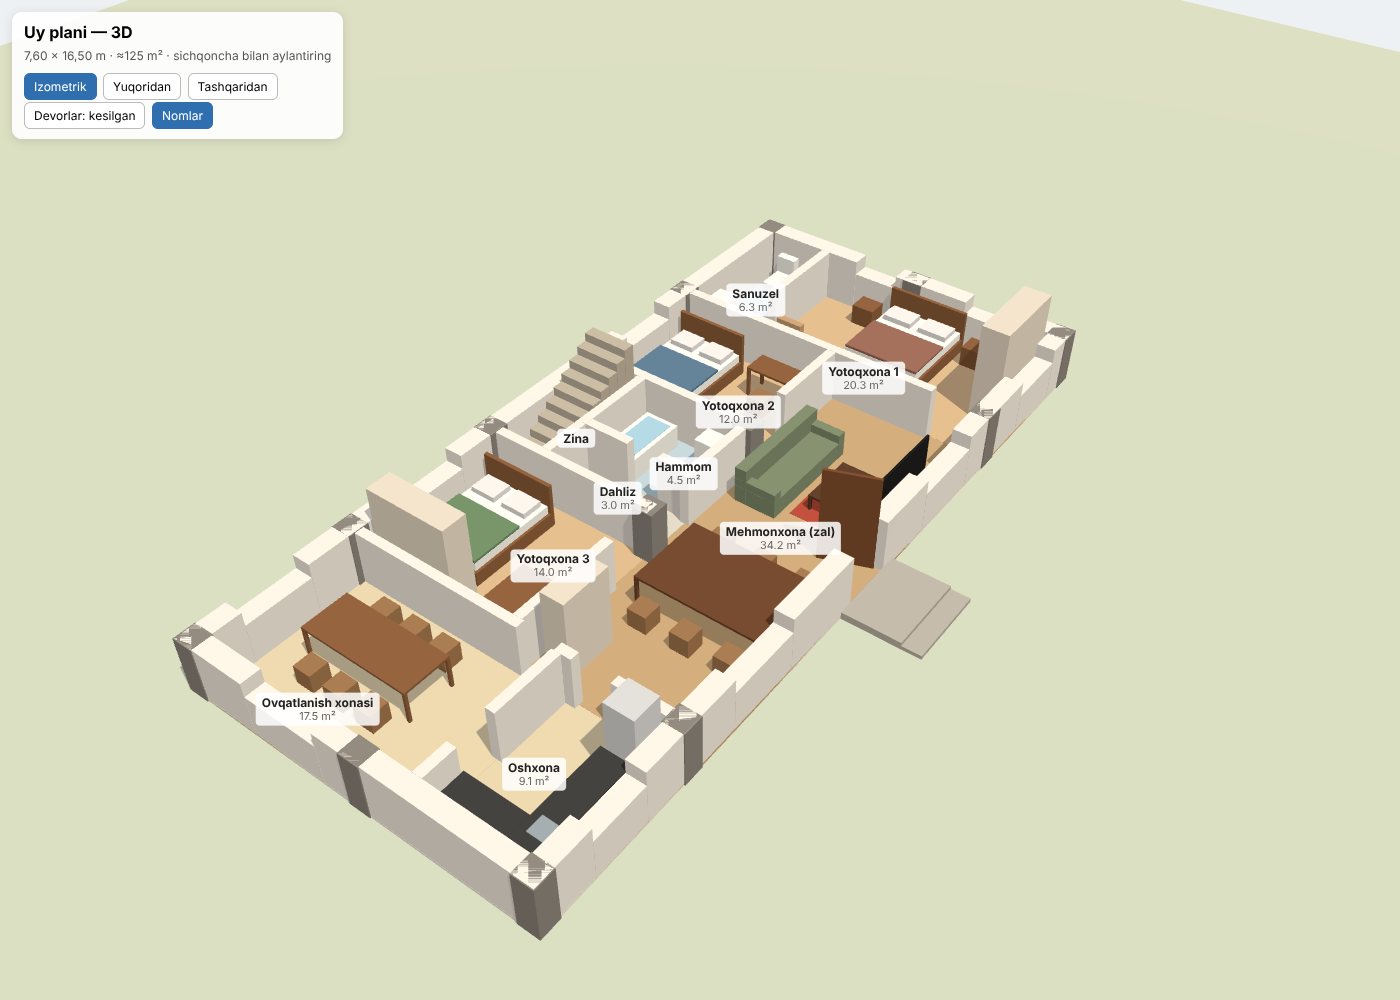
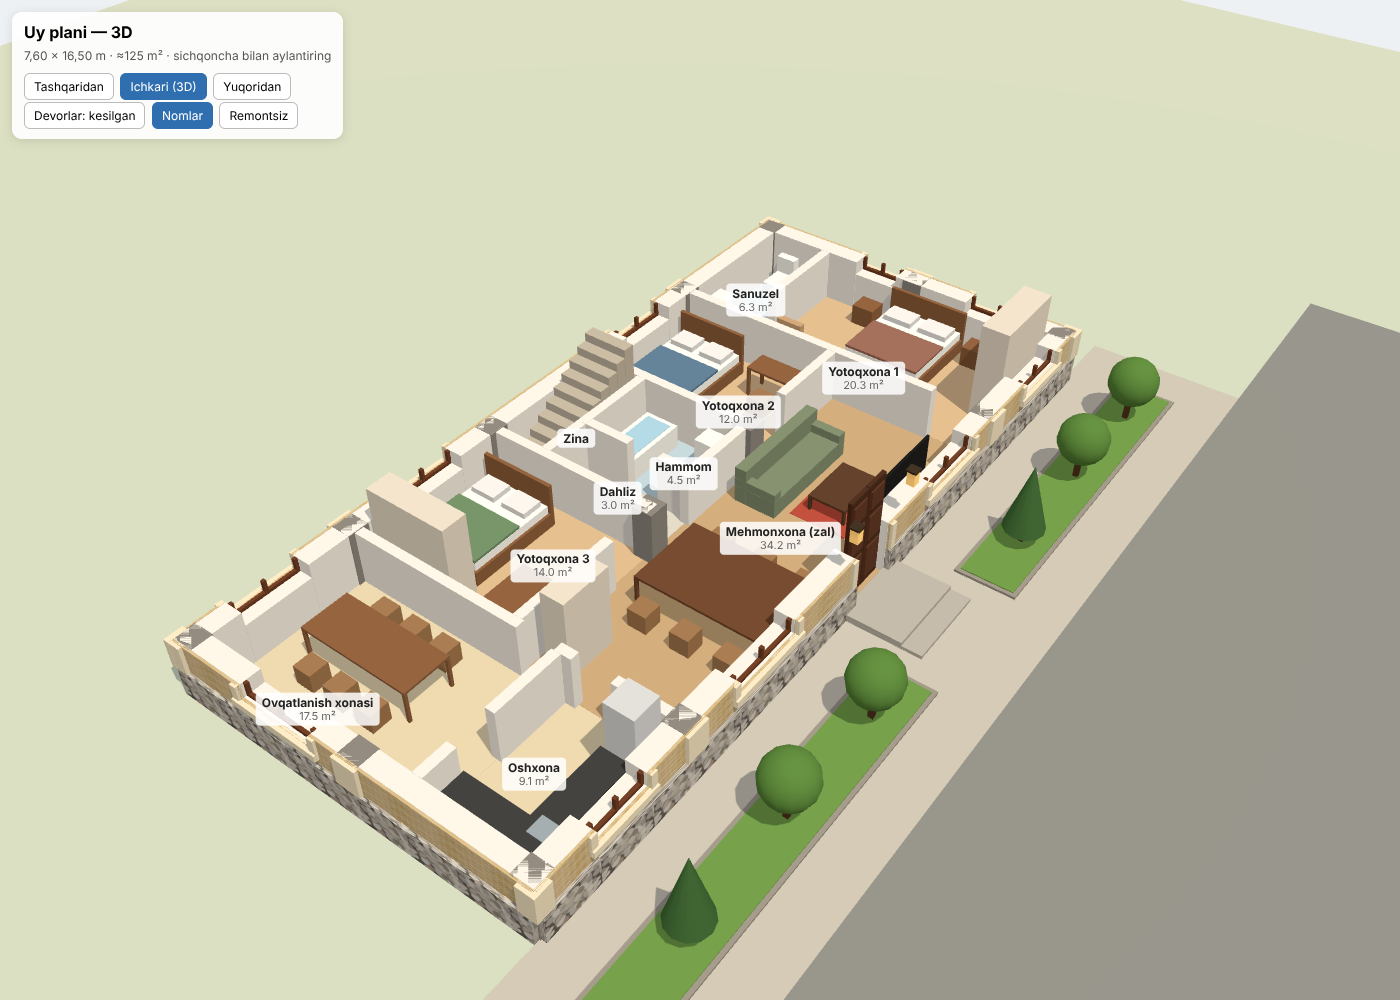
Uy 3D: rasm asosidagi fasad, 2-qavat, tom va remontsiz rejim
Claude-Session: https://claude.ai/code/session_0169jomFrHaG9jx6ye4rbiwT

diff --git a/uy-plani/uy-3d.html b/uy-plani/uy-3d.html
@@ -25,12 +25,13 @@
 <div id="ui">
   <h1>Uy plani — 3D</h1>
   <p>7,60 × 16,50 m · ≈125 m² · sichqoncha bilan aylantiring</p>
-  <button id="bIso" class="on">Izometrik</button>
+  <button id="bEye" class="on">Tashqaridan</button>
+  <button id="bIso">Ichkari (3D)</button>
   <button id="bTop">Yuqoridan</button>
-  <button id="bEye">Tashqaridan</button>
   <br>
   <button id="bWalls">Devorlar: baland</button>
   <button id="bLbl" class="on">Nomlar</button>
+  <button id="bRaw">Remontsiz</button>
 </div>
 <script type="module">
 import * as THREE from 'three';
@@ -80,12 +81,14 @@ scene.add(ground);
 const mats = {};
 const mat = (c, o = {}) => mats[c + JSON.stringify(o)] ??= new THREE.MeshStandardMaterial({ color: c, roughness: .85, ...o });
 
+let target = scene;
+const floors = [];
 // plan koordinatalari: x -> x, y (plan) -> z
 function box(x, z, w, d, h, color, y0 = 0, o = {}) {
   const m = new THREE.Mesh(new THREE.BoxGeometry(w, h, d), mat(color, o));
   m.position.set(x + w / 2, y0 + h / 2, z + d / 2);
   m.castShadow = m.receiveShadow = true;
-  scene.add(m);
+  target.add(m);
   return m;
 }
 
@@ -109,7 +112,10 @@ const LBL = {
   'Ovqatlanish xonasi': [2.2, 15.7], 'Oshxona': [5.8, 14.6],
 };
 for (const [n, x, z, w, d, c] of ROOMS) {
-  box(x, z, w, d, 0.05, c);
+  const f = box(x, z, w, d, 0.05, c);
+  f.material = f.material.clone();
+  f.userData.color = c;
+  floors.push(f);
   const el = document.createElement('div');
   el.className = 'lbl';
   el.innerHTML = n === 'Zina' ? n : `${n}<span>${(w * d).toFixed(1)} m²</span>`;
@@ -177,14 +183,13 @@ for (const [cx, cz] of [[0, 0], [4, 0], [W, 0], [0, 3.5], [W, 3.5], [0, 6.5], [4
 }
 
 // kirish eshigi (ochiq) va zinapoya oldidagi ayvoncha
-const entry = box(W - TO / 2 - 0.03, 7.4, 0.06, 1.05, DOOR_H, '#7a4b2a');
-entry.geometry.translate(0, 0, 0.5);
-entry.position.z -= 0.5;
-entry.rotation.y = -Math.PI / 2.6;
 box(W, 7.1, 1.2, 1.7, 0.15, '#b9b4ab');
 box(W + 1.2, 7.1, 0.4, 1.7, 0.08, '#b9b4ab');
 
 // ---------- mebel ----------
+const furniture = new THREE.Group();
+scene.add(furniture);
+target = furniture;
 const WHITE = '#fbfbf8', WOOD = '#8b5e3c', FAB = '#5b7c99', FAB2 = '#9a6a5a';
 function bed(x, z, w, d, c = FAB) {
   box(x, z, w, d, 0.35, WOOD);
@@ -208,8 +213,10 @@ box(0.5, 2.6, 0.5, 0.45, 0.85, WHITE);
 // Yotoqxona 2
 bed(0.5, 4.0, 1.6, 2.0);
 table(2.6, 4.0, 1.1, 0.55); chair(3.15, 4.85);
-// Zina
+// Zina (konstruksiya — remontsiz holatda ham ko'rinadi)
+target = scene;
 for (let i = 0; i < 11; i++) box(0.4, 9.2 - i * 0.25, 1.0, 0.25, 0.18 * (i + 1), '#bfb5a5');
+target = furniture;
 // Hammom
 box(1.75, 6.75, 0.75, 1.4, 0.55, WHITE);
 box(1.85, 6.85, 0.55, 1.2, 0.02, '#a9d3e8', 0.54);
@@ -237,18 +244,215 @@ box(5.3, 15.5, 1.3, 0.6, 0.88, '#e9e5dd'); box(5.3, 15.5, 1.3, 0.6, 0.04, '#3b3b
 box(6.6, 13.25, 0.6, 0.6, 1.8, '#d7dadd');
 box(6.75, 15.4, 0.35, 0.35, 0.02, '#9aa7b0', 0.92);
 
+target = scene;
+
+// ---------- tashqi fasad (rasm asosida: sariq g'isht, krem ramkalar, tosh poydevor) ----------
+let seed = 7;
+const rand = () => (seed = seed * 16807 % 2147483647) / 2147483647;
+function canvasTex(w, h, draw) {
+  const c = document.createElement('canvas'); c.width = w; c.height = h;
+  draw(c.getContext('2d'), w, h);
+  const t = new THREE.CanvasTexture(c);
+  t.wrapS = t.wrapT = THREE.RepeatWrapping; t.colorSpace = THREE.SRGBColorSpace; t.anisotropy = 8;
+  return t;
+}
+const brickTex = canvasTex(256, 256, (g, w, h) => {   // 1,0 × 0,7 m
+  g.fillStyle = '#e9dcc0'; g.fillRect(0, 0, w, h);
+  const bw = 64, bh = 25.6;
+  for (let r = 0; r < 10; r++) for (let i = -1; i < 5; i++) {
+    const x = i * bw + (r % 2 ? bw / 2 : 0), y = r * bh, t = rand();
+    g.fillStyle = `hsl(${34 + t * 10}, ${35 + rand() * 20}%, ${56 + rand() * 16}%)`;
+    g.fillRect(x + 2, y + 2, bw - 4, bh - 4);
+  }
+});
+const stoneTex = canvasTex(256, 160, (g, w, h) => {   // 1,0 × 0,6 m
+  g.fillStyle = '#5f5a54'; g.fillRect(0, 0, w, h);
+  for (let i = 0; i < 90; i++) {
+    const x = rand() * w, y = rand() * h, r = 9 + rand() * 11;
+    g.fillStyle = `hsl(${25 + rand() * 20}, ${4 + rand() * 10}%, ${52 + rand() * 30}%)`;
+    g.beginPath(); g.ellipse(x, y, r * 1.35, r, rand() * 3, 0, 7); g.fill();
+  }
+});
+const roofTex = canvasTex(64, 64, (g, w, h) => {      // har 0,5 m da profnastil qirrasi
+  g.fillStyle = '#5c6268'; g.fillRect(0, 0, w, h);
+  g.fillStyle = '#7d848b'; g.fillRect(0, 0, w, 5);
+  g.fillStyle = '#4a4f55'; g.fillRect(0, 5, w, 3);
+});
+const woodTex = canvasTex(128, 64, (g, w, h) => {
+  g.fillStyle = '#b06a32'; g.fillRect(0, 0, w, h);
+  for (let x = 0; x < w; x += 16) { g.fillStyle = `hsl(25, 55%, ${36 + rand() * 12}%)`; g.fillRect(x, 0, 14, h); }
+});
+function texMat(tex, rx, ry) {
+  const t = tex.clone(); t.needsUpdate = true; t.repeat.set(rx, ry);
+  return new THREE.MeshStandardMaterial({ map: t, roughness: .9 });
+}
+const CREAM = '#efe4c8', FRAME = '#6b3a1f';
+const PLINTH = 0.6;
+const upper = new THREE.Group(); scene.add(upper);
+
+function mbox(x, y, z, w, h, d, material, grp, reg = false) {
+  const m = new THREE.Mesh(new THREE.BoxGeometry(w, h, d), material);
+  m.position.set(x + w / 2, y + h / 2, z + d / 2);
+  m.castShadow = m.receiveShadow = true;
+  grp.add(m);
+  if (reg) { m.userData = { y0: y, h }; wallMeshes.push(m); }
+  return m;
+}
+// tomon bo'yicha: s = 'E' (ko'cha, x=W), 'W' (x=0), 'N' (z=0), 'S' (z=H); a..b devor bo'ylab, k — chiqib turishi
+function sbox(s, a, b, y0, y1, k, material, grp, reg, off = 0) {
+  const L = b - a, h = y1 - y0;
+  if (L <= 0.001 || h <= 0.001) return;
+  if (s === 'E') return mbox(W + off, y0, a, k, h, L, material, grp, reg);
+  if (s === 'W') return mbox(-k - off, y0, a, k, h, L, material, grp, reg);
+  if (s === 'N') return mbox(a, y0, -k - off, L, h, k, material, grp, reg);
+  return mbox(a, y0, H + off, L, h, k, material, grp, reg);
+}
+function cladPiece(s, a, b, y0, y1, grp, reg) {
+  if (y0 < PLINTH) sbox(s, a, b, y0, Math.min(y1, PLINTH), 0.12, texMat(stoneTex, (b - a) / 1.0, (Math.min(y1, PLINTH) - y0) / 0.6), grp, reg);
+  if (y1 > PLINTH) { const ya = Math.max(y0, PLINTH); sbox(s, a, b, ya, y1, 0.05, texMat(brickTex, (b - a) / 1.0, (y1 - ya) / 0.7), grp, reg); }
+}
+// teshiklar: [a, b, pastki, yuqori, turi]
+function facade(s, len, y0, y1, ops, grp, reg) {
+  let cur = 0;
+  for (const [a, b, lo, hi, type] of [...ops].sort((p, q) => p[0] - q[0])) {
+    cladPiece(s, cur, a, y0, y1, grp, reg);
+    cladPiece(s, a, b, y0, lo, grp, reg);
+    cladPiece(s, a, b, hi, y1, grp, reg);
+    cur = b;
+    // krem ramka
+    const fr = 0.14, cm = mat(CREAM);
+    sbox(s, a - fr, a, lo - fr, hi + fr, 0.1, cm, grp, reg);
+    sbox(s, b, b + fr, lo - fr, hi + fr, 0.1, cm, grp, reg);
+    sbox(s, a - fr, b + fr, hi, hi + fr, 0.1, cm, grp, reg);
+    if (type === 'w') {
+      sbox(s, a - fr, b + fr, lo - fr, lo, 0.14, cm, grp, reg);
+      // jigarrang yog'och rom + oyna
+      const fm = mat(FRAME);
+      sbox(s, a, a + 0.07, lo, hi, 0.07, fm, grp, reg, -0.12);
+      sbox(s, b - 0.07, b, lo, hi, 0.07, fm, grp, reg, -0.12);
+      sbox(s, a, b, lo, lo + 0.07, 0.07, fm, grp, reg, -0.12);
+      sbox(s, a, b, hi - 0.07, hi, 0.07, fm, grp, reg, -0.12);
+      sbox(s, (a + b) / 2 - 0.035, (a + b) / 2 + 0.035, lo, hi, 0.07, fm, grp, reg, -0.12);
+      if (b - a > 1.2) sbox(s, a, b, hi - 0.45, hi - 0.38, 0.07, fm, grp, reg, -0.12);
+      if (y0 > 2) sbox(s, a, b, lo, hi, 0.02, glass, grp, false, -0.1);
+    }
+  }
+  cladPiece(s, cur, len, y0, y1, grp, reg);
+}
+const Wg = (a, b) => [a, b, SILL, WIN_TOP, 'w'];
+const U0 = 3.1, U1 = 5.9, Wu = (a, b) => [a, b, U0 + 0.9, U0 + 2.1, 'w'];
+
+// 1-qavat
+facade('E', H, 0, WALL_H, [Wg(0.9, 2.3), Wg(4.4, 6.0), [7.4, 8.5, 0, 2.3, 'd'], Wg(10.3, 11.9), Wg(14.1, 15.3)], scene, true);
+facade('W', H, 0, WALL_H, [Wg(4.3, 5.7), Wg(10.5, 11.9), Wg(14.1, 15.5)], scene, true);
+facade('N', W, 0, WALL_H, [Wg(2.6, 3.6), Wg(5.3, 6.6)], scene, true);
+facade('S', W, 0, WALL_H, [Wg(1.6, 3.2)], scene, true);
+// 2-qavat (faqat tashqi ko'rinishda)
+mbox(-0.05, WALL_H, -0.05, W + 0.1, U0 - WALL_H, H + 0.1, mat('#d8d2c4'), upper);
+facade('E', H, U0, U1, [Wu(0.9, 2.3), Wu(4.4, 6.0), Wu(7.5, 8.4), Wu(10.3, 11.9), Wu(14.1, 15.3)], upper);
+facade('W', H, U0, U1, [Wu(4.3, 5.7), Wu(10.5, 11.9), Wu(14.1, 15.5)], upper);
+facade('N', W, U0, U1, [Wu(2.6, 3.6), Wu(5.3, 6.6)], upper);
+facade('S', W, U0, U1, [Wu(1.6, 3.2)], upper);
+// qavatlararo krem belbog' va karniz
+for (const [s, len] of [['E', H], ['W', H], ['N', W], ['S', W]]) {
+  sbox(s, -0.12, len + 0.12, WALL_H, U0, 0.12, mat(CREAM), upper);
+  sbox(s, -0.15, len + 0.15, U1 - 0.18, U1, 0.16, mat(CREAM), upper);
+  // pilyastrlar (ustunlar o'rnida)
+  const ps = s === 'E' || s === 'W' ? [0, 3.5, 13, H] : [0, 4.0, W];
+  for (const p of ps) {
+    const a = Math.max(p - 0.25, -0.12), b = Math.min(p + 0.25, len + 0.12);
+    sbox(s, a, b, PLINTH, WALL_H, 0.12, mat(CREAM), scene, true);
+    sbox(s, a, b, U0, U1, 0.12, mat(CREAM), upper);
+  }
+}
+
+// kirish eshigi: o'ymakor yog'och ikki tavaqali eshik
+const DK = mat('#4a2814'), DK2 = mat('#5e3420');
+for (const [a, b] of [[7.4, 7.95], [7.95, 8.5]]) {
+  mbox(W - 0.22, 0, a + 0.01, 0.08, 2.3, b - a - 0.02, DK, scene);
+  for (const [y0, y1] of [[0.2, 0.9], [1.05, 1.6], [1.75, 2.15]]) mbox(W - 0.15, y0, a + 0.08, 0.04, y1 - y0, b - a - 0.16, DK2, scene);
+}
+for (const z of [7.05, 8.85]) {
+  mbox(W + 0.1, 1.95, z - 0.08, 0.16, 0.28, 0.16, new THREE.MeshStandardMaterial({ color: '#ffd98a', emissive: '#a8742a', emissiveIntensity: .6 }), scene);
+  mbox(W + 0.08, 2.23, z - 0.1, 0.2, 0.04, 0.2, mat('#3a2a1a'), scene);
+}
+
+// tom: kulrang profnastil, ikki nishabli
+const RIDGE = 8.1, ang = Math.atan2(RIDGE - U1, W / 2), Lr = (W / 2 + 0.5) / Math.cos(ang);
+const roofMat = texMat(roofTex, 1, (H + 0.8) / 0.5);
+for (const sgn of [-1, 1]) {
+  const r = new THREE.Mesh(new THREE.BoxGeometry(Lr, 0.08, H + 0.8), roofMat);
+  r.position.set(W / 2 + sgn * (Lr / 2) * Math.cos(ang), RIDGE - (Lr / 2) * Math.sin(ang), H / 2);
+  r.rotation.z = -sgn * ang;
+  r.castShadow = r.receiveShadow = true;
+  upper.add(r);
+  // yog'och karniz osti
+  mbox(sgn < 0 ? -0.5 : W, U1 - 0.3, -0.4, 0.5, 0.06, H + 0.8, texMat(woodTex, 1, (H + 0.8) / 0.5), upper);
+}
+mbox(W / 2 - 0.12, RIDGE - 0.02, -0.4, 0.24, 0.1, H + 0.8, mat('#3d4247'), upper);
+// yon frontonlar (yog'och qoplama)
+const tri = new THREE.Shape([new THREE.Vector2(0, U1), new THREE.Vector2(W, U1), new THREE.Vector2(W / 2, RIDGE - 0.05)]);
+for (const z of [-0.06, H - 0.02]) {
+  const g = new THREE.Mesh(new THREE.ExtrudeGeometry(tri, { depth: 0.08, bevelEnabled: false }), texMat(woodTex, 0.15, 0.3));
+  g.position.z = z; g.castShadow = true; upper.add(g);
+}
+// ko'cha tomondagi uchburchak mansardalar (rasmdagidek)
+for (const c of [1.6, 7.95, 14.7]) {
+  const hw = 1.1, base = U1, mid = base + 1.0, top = mid + 1.0;
+  const prof = new THREE.Shape([new THREE.Vector2(-hw, base), new THREE.Vector2(hw, base), new THREE.Vector2(hw, mid), new THREE.Vector2(0, top), new THREE.Vector2(-hw, mid)]);
+  const body = new THREE.Mesh(new THREE.ExtrudeGeometry(prof, { depth: 3.2, bevelEnabled: false }), mat(CREAM));
+  // ExtrudeGeometry +z bo'ylab chiqadi; -90° burilganda u ko'chadan uyning ichiga (-x) qarab ketadi
+  body.rotation.y = -Math.PI / 2; body.position.set(W + 0.05, 0, c);
+  body.castShadow = true; upper.add(body);
+  const front = new THREE.Shape([new THREE.Vector2(-hw - 0.1, mid - 0.02), new THREE.Vector2(hw + 0.1, mid - 0.02), new THREE.Vector2(0, top + 0.05)]);
+  const fg = new THREE.Mesh(new THREE.ExtrudeGeometry(front, { depth: 0.06, bevelEnabled: false }), texMat(woodTex, 0.12, 0.3));
+  fg.rotation.y = Math.PI / 2; fg.position.set(W + 0.04, 0, c); upper.add(fg);
+  // mansarda oynasi
+  const fm = mat(FRAME);
+  mbox(W + 0.05, base + 0.12, c - 0.45, 0.04, 0.8, 0.9, fm, upper);
+  mbox(W + 0.08, base + 0.18, c - 0.39, 0.02, 0.68, 0.78, glass, upper);
+  mbox(W + 0.1, base + 0.18, c - 0.02, 0.03, 0.68, 0.04, fm, upper);
+  // mansarda tomi
+  const run = hw + 0.3, rise = run * ((top - mid) / hw), L = Math.hypot(run, rise), a2 = Math.atan2(rise, run);
+  for (const sgn of [-1, 1]) {
+    const r = new THREE.Mesh(new THREE.BoxGeometry(3.6, 0.07, L), texMat(roofTex, 0.25, 7));
+    r.position.set(W + 0.45 - 1.8, top + 0.05 - rise / 2, c + sgn * run / 2);
+    r.rotation.x = sgn * a2;
+    r.castShadow = true; upper.add(r);
+  }
+}
+// suv quvurlari
+for (const z of [3.1, 12.65]) {
+  const p = new THREE.Mesh(new THREE.CylinderGeometry(0.05, 0.05, U1 - 0.2, 10), mat('#4b5563'));
+  p.position.set(W + 0.2, (U1 - 0.2) / 2, z); upper.add(p);
+}
+
+// hovli: yo'lak, maysa, butalar, ko'cha
+box(W, -1.5, 3.2, H + 3, 0.02, '#c9c3b8', -0.01);
+for (const [z0, z1] of [[-0.5, 6.6], [9.3, H + 0.5]]) {
+  box(W + 1.0, z0, 1.2, z1 - z0, 0.06, '#9a958c');
+  box(W + 1.08, z0 + 0.08, 1.04, z1 - z0 - 0.16, 0.08, '#6e9a48');
+}
+for (const z of [0.6, 2.9, 5.2, 10.4, 12.8, 15.2]) {
+  box(W + 1.55, z - 0.05, 0.1, 0.1, 0.5, '#5a3d24');
+  const t = new THREE.Mesh(z % 2 > 1 ? new THREE.ConeGeometry(0.4, 1.4, 12) : new THREE.SphereGeometry(0.5, 14, 10), mat(z % 2 > 1 ? '#3f6b35' : '#5b8a3c'));
+  t.position.set(W + 1.6, z % 2 > 1 ? 1.1 : 0.95, z); t.castShadow = true; scene.add(t);
+}
+box(W + 3.2, -6, 9, H + 12, 0.02, '#8e8f8c', -0.012);
+
 // ---------- boshqaruv ----------
-let view = 'iso', showLbl = true;
+let view = 'eye', showLbl = true, low = false;
 const views = {
   iso: [[W + 8, 17, H + 7], [W / 2, 0, H / 2 - 0.5]],
   top: [[W / 2, 26, H / 2 + 0.01], [W / 2, 0, H / 2]],
-  eye: [[W + 17, 5, H + 6], [W / 2, 1, H / 2]],
+  eye: [[W + 15, 4.5, H + 7], [W / 2, 3.2, H / 2]],
 };
 function setView(k) {
   camera.position.set(...views[k][0]);
   controls.target.set(...views[k][1]);
   controls.update();
   view = k;
+  upper.visible = k === 'eye' && !low;
   for (const l of labels) l.visible = showLbl && k !== 'eye';
   for (const [id, v] of [['bIso', 'iso'], ['bTop', 'top'], ['bEye', 'eye']]) document.getElementById(id).classList.toggle('on', v === k);
 }
@@ -256,7 +460,6 @@ document.getElementById('bIso').onclick = () => setView('iso');
 document.getElementById('bTop').onclick = () => setView('top');
 document.getElementById('bEye').onclick = () => setView('eye');
 
-let low = false;
 document.getElementById('bWalls').onclick = (e) => {
   low = !low;
   e.target.textContent = low ? 'Devorlar: kesilgan' : 'Devorlar: baland';
@@ -267,6 +470,15 @@ document.getElementById('bWalls').onclick = (e) => {
     m.visible = top > y0;
     if (m.visible) { m.scale.y = (top - y0) / h; m.position.y = y0 + (top - y0) / 2; }
   }
+  upper.visible = view === 'eye' && !low;
+};
+let raw = false;
+document.getElementById('bRaw').onclick = (e) => {
+  raw = !raw;
+  e.target.classList.toggle('on', raw);
+  furniture.visible = !raw;
+  for (const f of floors) f.material.color.set(raw ? '#9d9a94' : f.userData.color);
+  mat(WALL_C).color.set(raw ? '#b3aea4' : WALL_C);
 };
 document.getElementById('bLbl').onclick = (e) => {
   showLbl = !showLbl;
@@ -275,8 +487,10 @@ document.getElementById('bLbl').onclick = (e) => {
 };
 
 const params = new URLSearchParams(location.search);
-setView(params.get('view') || 'iso');
-if (params.get('walls') !== 'high') document.getElementById('bWalls').click();
+setView(params.get('view') || 'eye');
+if (params.get('walls') === 'low' || (!params.get('walls') && view !== 'eye')) document.getElementById('bWalls').click();
+
+if (params.get('raw')) document.getElementById('bRaw').click();
 
 addEventListener('resize', () => {
   camera.aspect = innerWidth / innerHeight;
